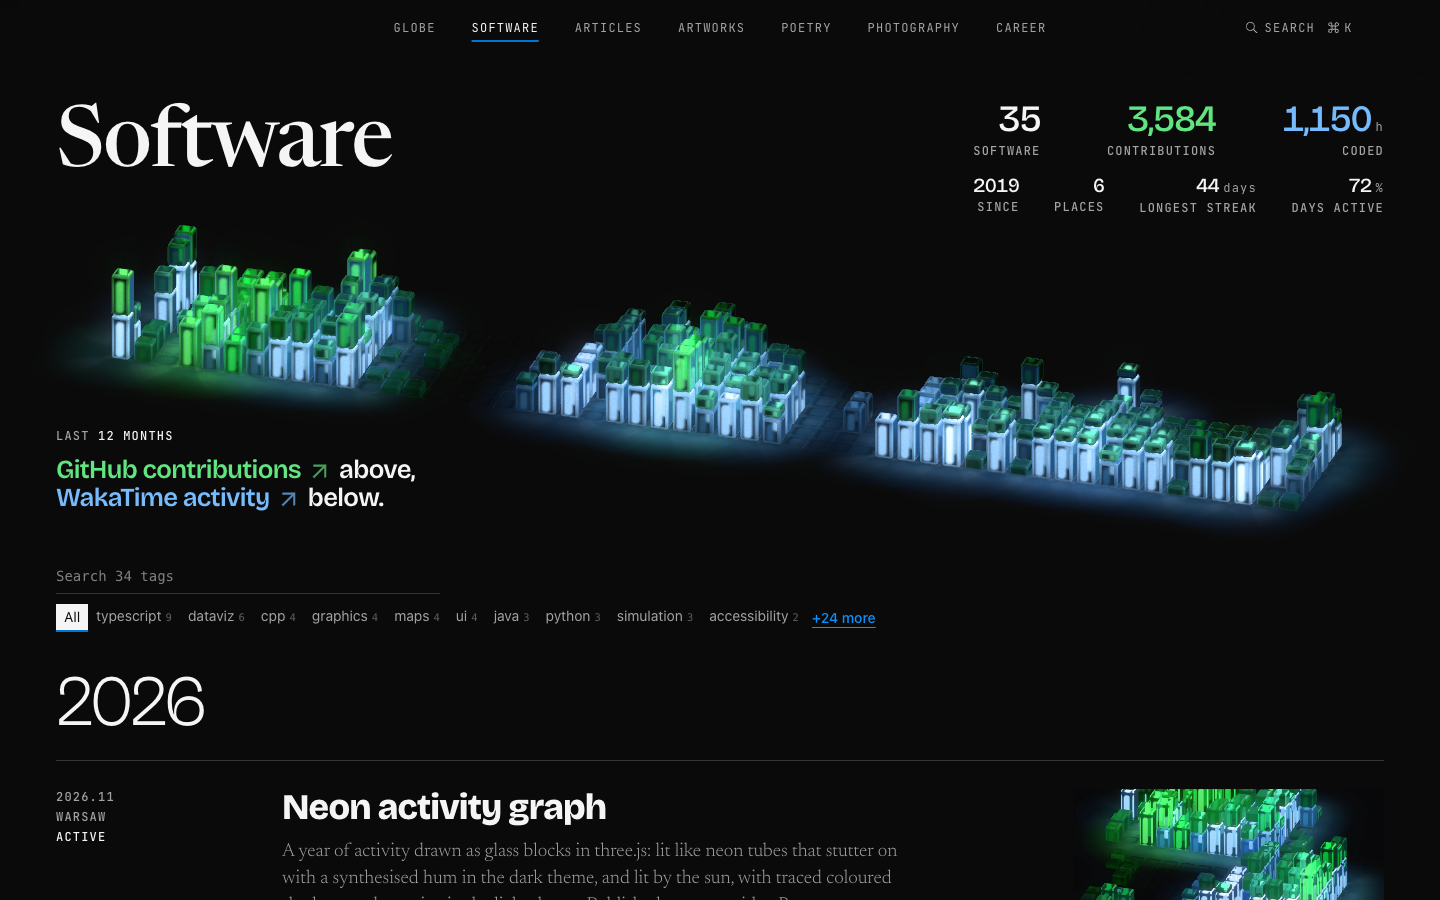
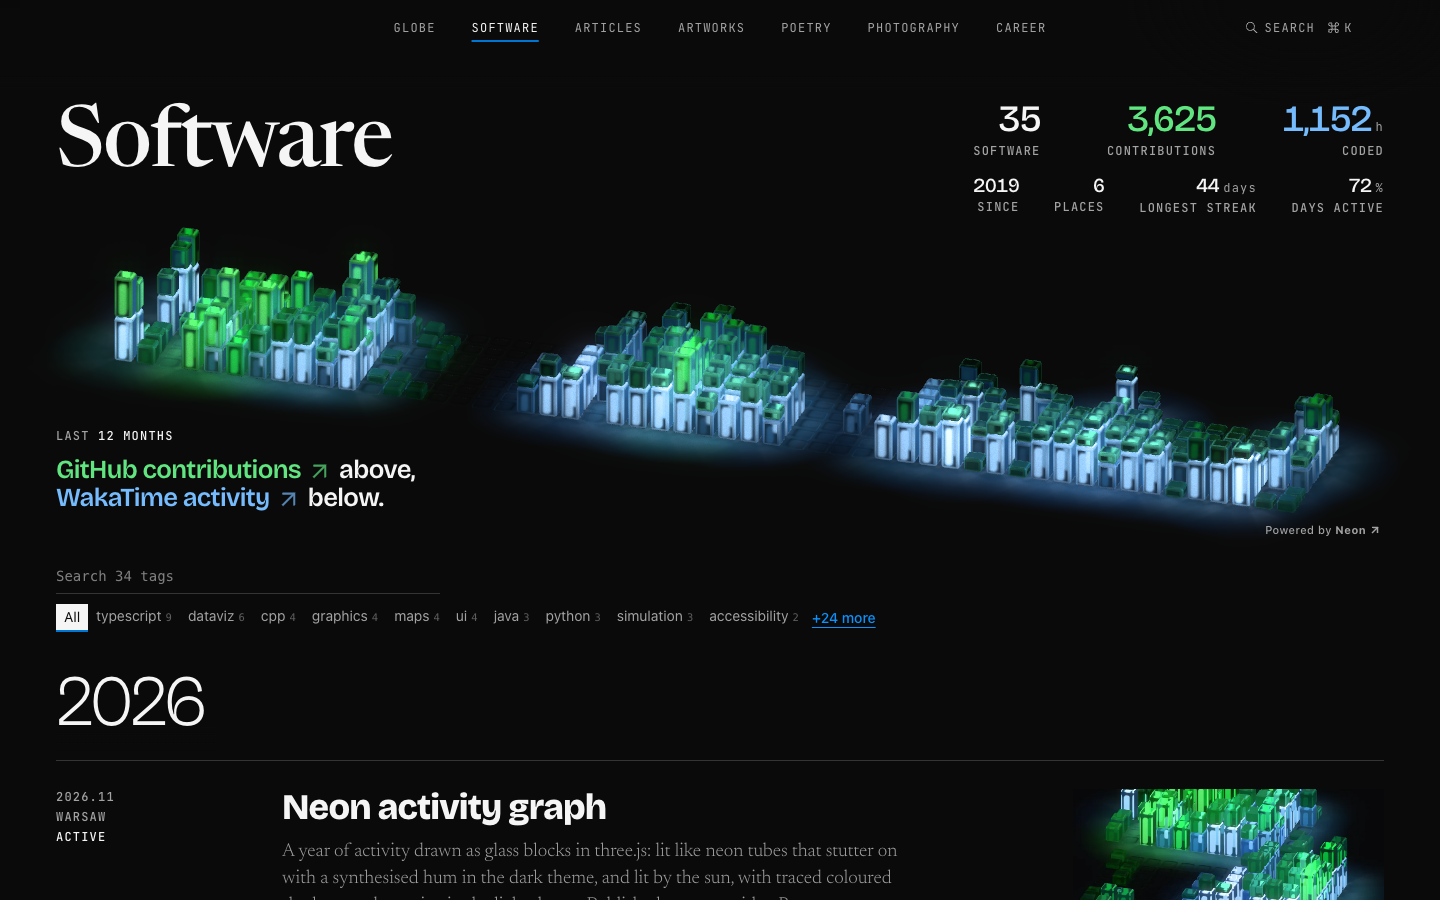
README: link the newer docs, refresh the software screenshot (Powered by Neon link)

diff --git a/README.md b/README.md
@@ -99,14 +99,17 @@ pnpm build          # production build
 **Design**
 - [Design system](docs/design-system.md) and [design tokens](docs/design-tokens.md)
 - [Landing hero](docs/landing.md): the typographic home page over the globe
-- [Pixel line rules](docs/pixel-line-rules.md) and [street map architecture](docs/street-architecture.md)
+- [Pixel line rules](docs/pixel-line-rules.md), [street map architecture](docs/street-architecture.md) and [the street zoom spike](docs/street-zoom-spike.md)
+- Pages: [career](docs/career-page.md), [step page](docs/step-page.md), [activity picture](docs/activity-picture.md), [paths](docs/paths.md)
+- [PWA system bars](docs/pwa-system-bars.md), [phone remount spec](docs/phone-remount-spec.md)
 
 **Engineering**
 - [Web architecture](docs/web-architecture.md): routing, data, focus management, globe lifecycle
 - [Renderer decision](docs/renderer-decision.md): why standalone Three.js, with benchmarks
 - [Performance](docs/performance.md): measurements and the budget check
 - [API contract](docs/api-contract.md), [API cost and abuse](docs/api-cost-and-abuse.md)
-- [Entry content model](docs/content-entry-model.md)
+- [Entry content model](docs/content-entry-model.md) and [media policy](docs/media-policy.md)
+- [3D globe report](docs/globe-3d-report.md)
 - [Language models and crawlers](docs/llm-access.md)
 - [Self-hosting](docs/self-hosting.md)
 - [Handoff](docs/handoff.md): state of the rebuild and what is left
